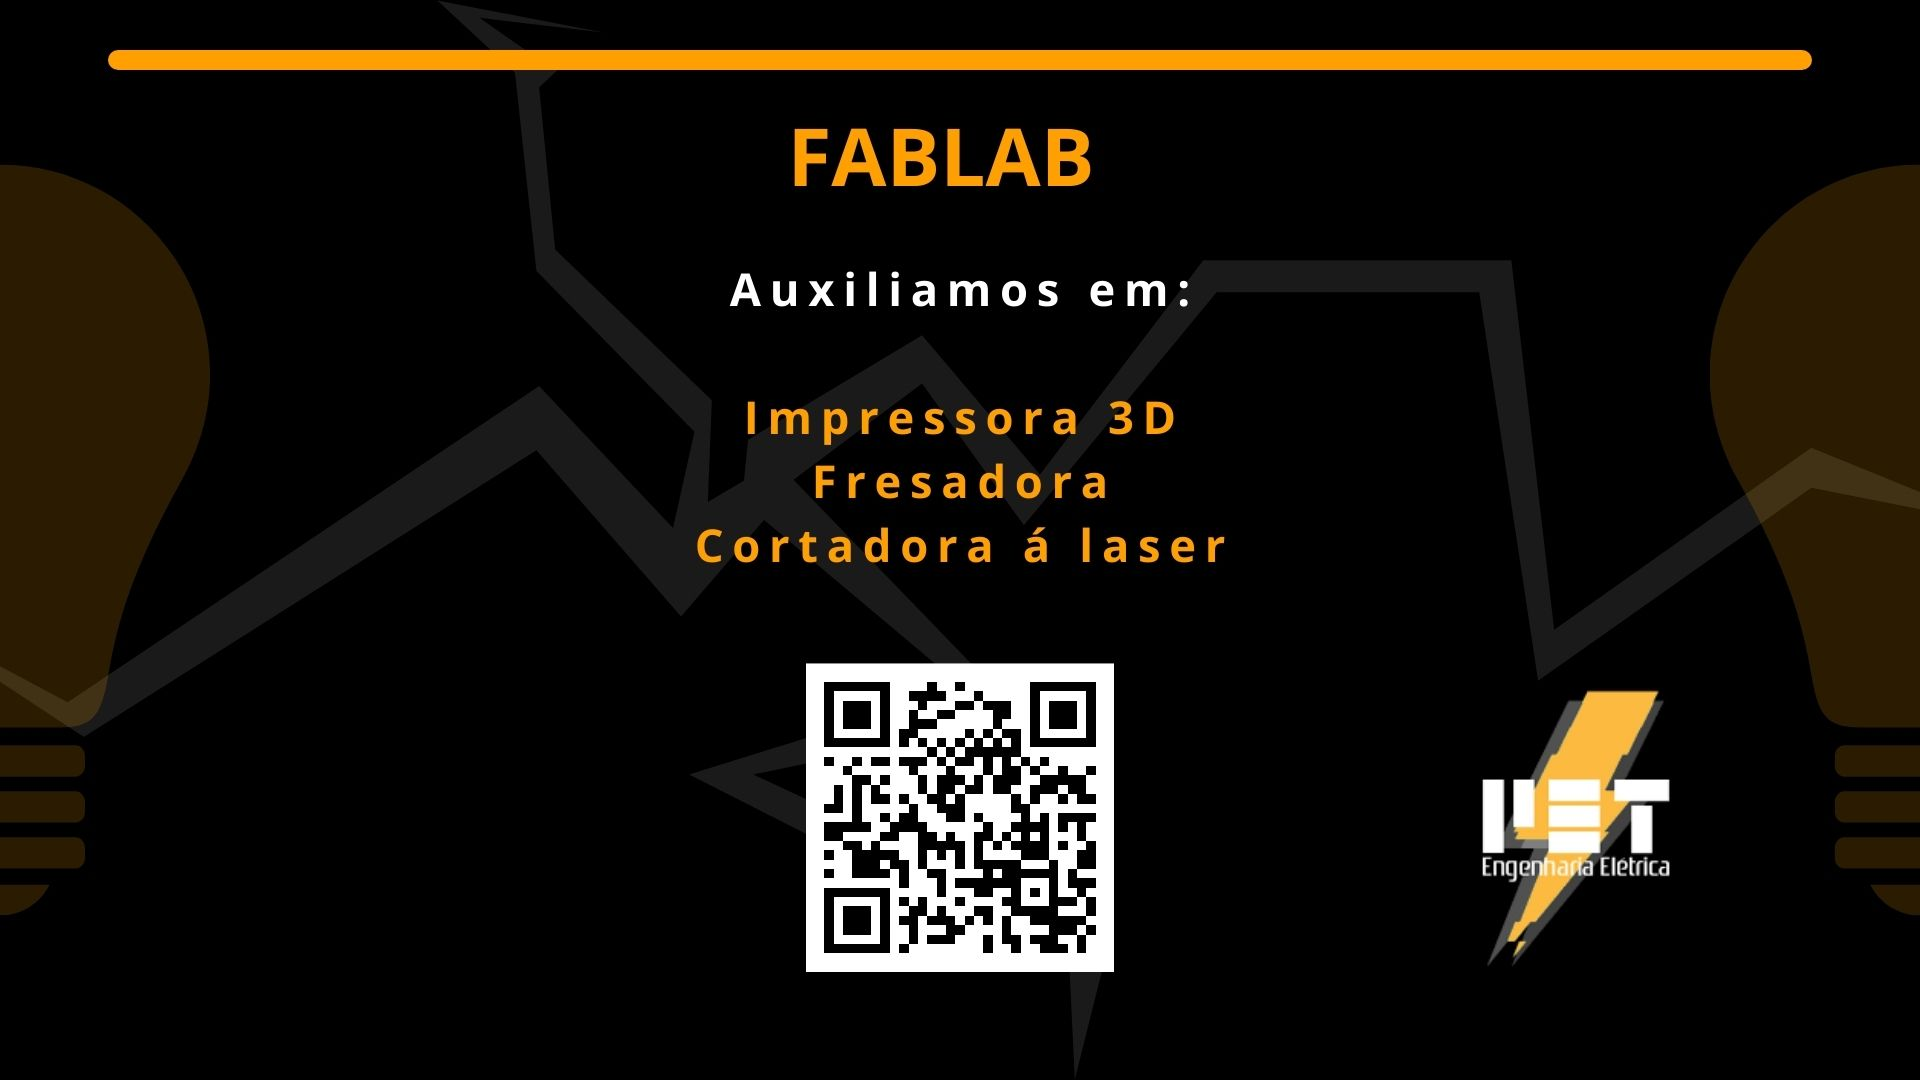
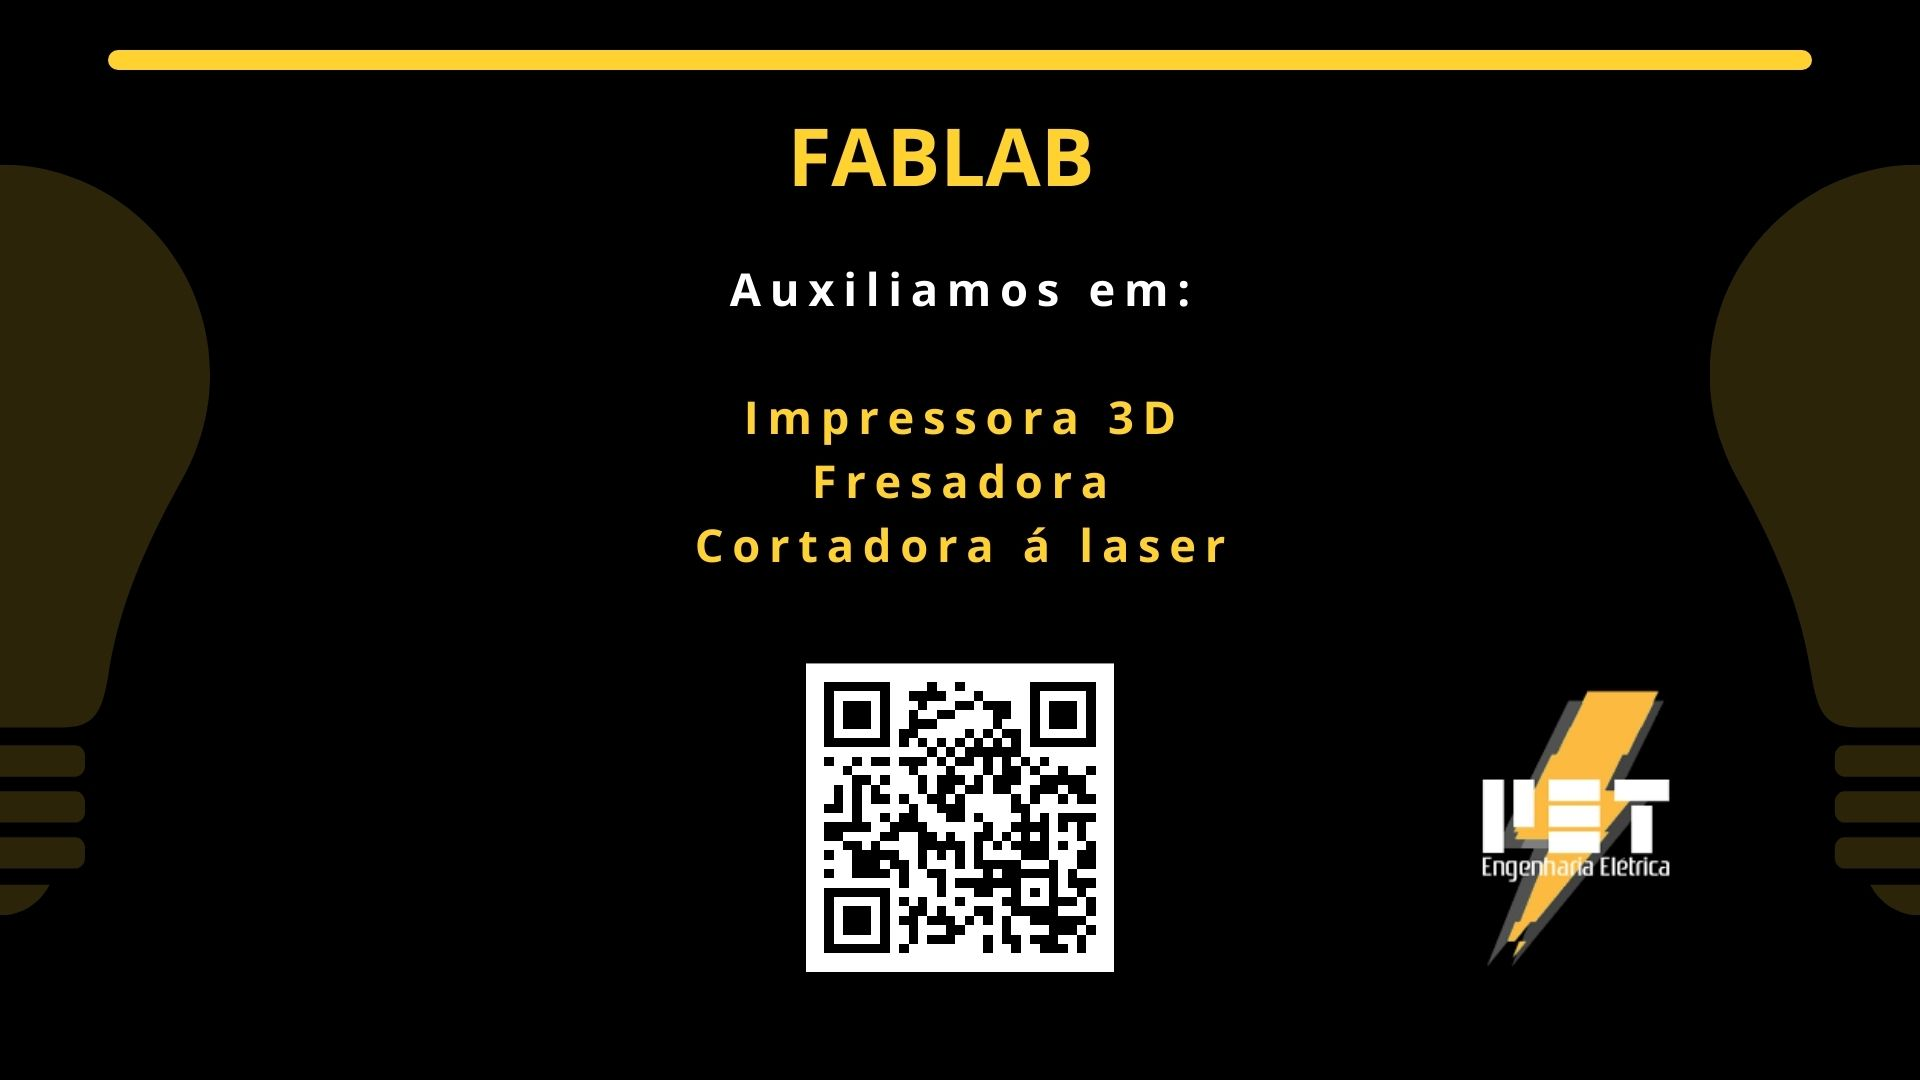
tchau halloween

diff --git a/src/components/Dashboard/index.tsx b/src/components/Dashboard/index.tsx
@@ -49,7 +49,6 @@ export function Dashboard() {
       >
         <SwiperSlide><h1>{titleUfprnews}</h1><p>{abstractUfprnews}</p></SwiperSlide>
         <SwiperSlide><h1>{titleEd}</h1><p>{abstractEd}</p></SwiperSlide>
-        <SwiperSlide><img src="/halloween.jpg" alt="fablab" height="100%" /></SwiperSlide>
         <SwiperSlide><img src="/fablab.jpg" alt="fablab" height="100%" /></SwiperSlide>
         <SwiperSlide><img src="/divul.jpg" alt="fablab" height="100%" /></SwiperSlide>
         <SwiperSlide><img src="/monitorias.jpg" alt="fablab" height="100%" /></SwiperSlide>

diff --git a/src/components/Dashboard/styles.ts b/src/components/Dashboard/styles.ts
@@ -2,21 +2,21 @@ import styled from "styled-components";
 import { Swiper, SwiperSlide } from 'swiper/react'
 
 export const Container = styled(Swiper) `
-    background: orange;
+    background: black;
     height: calc(100vh - 15.96rem);
 
     h1 {
         padding: 1rem 2rem 2rem 2rem;
         font-size: 4rem;
         font-weight: bolder;
-        color: #000000;
+        color: #ffd230;
     }
 
     p {
         padding: 0 2rem 2rem 2rem;
         margin-top: 3.5rem;
         font-size: 3.5rem;
-        color: #FF0000;
+        color: #FFFFFF;
     }
 
     img {
